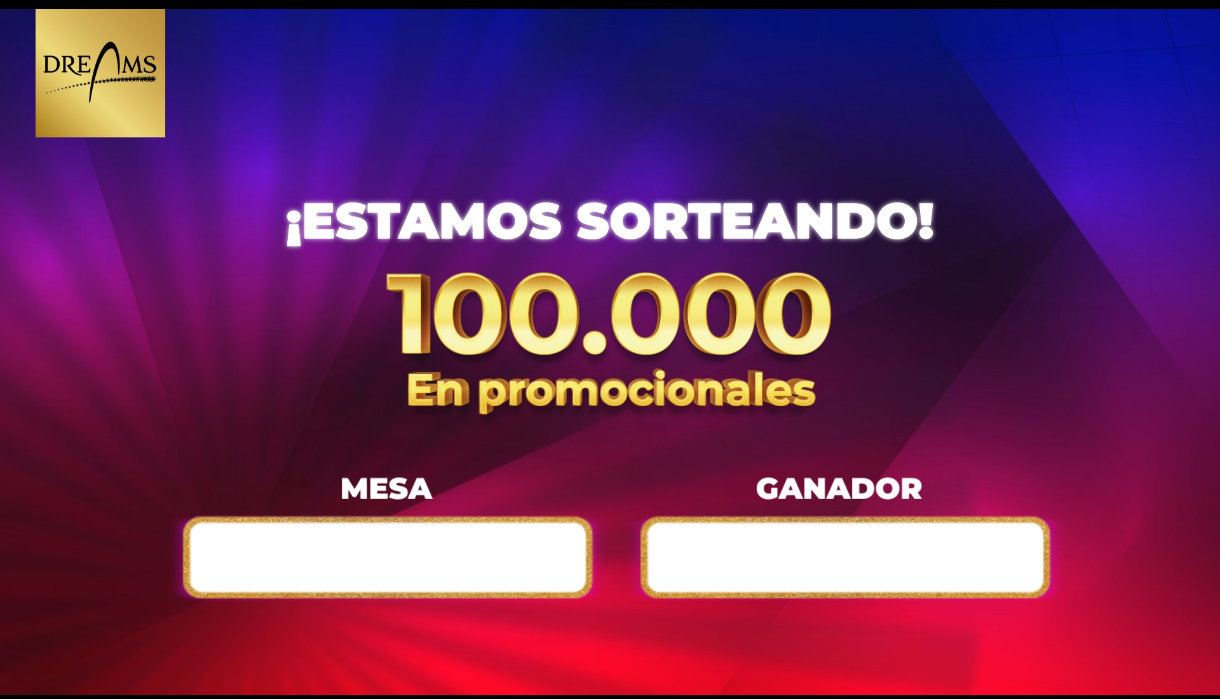
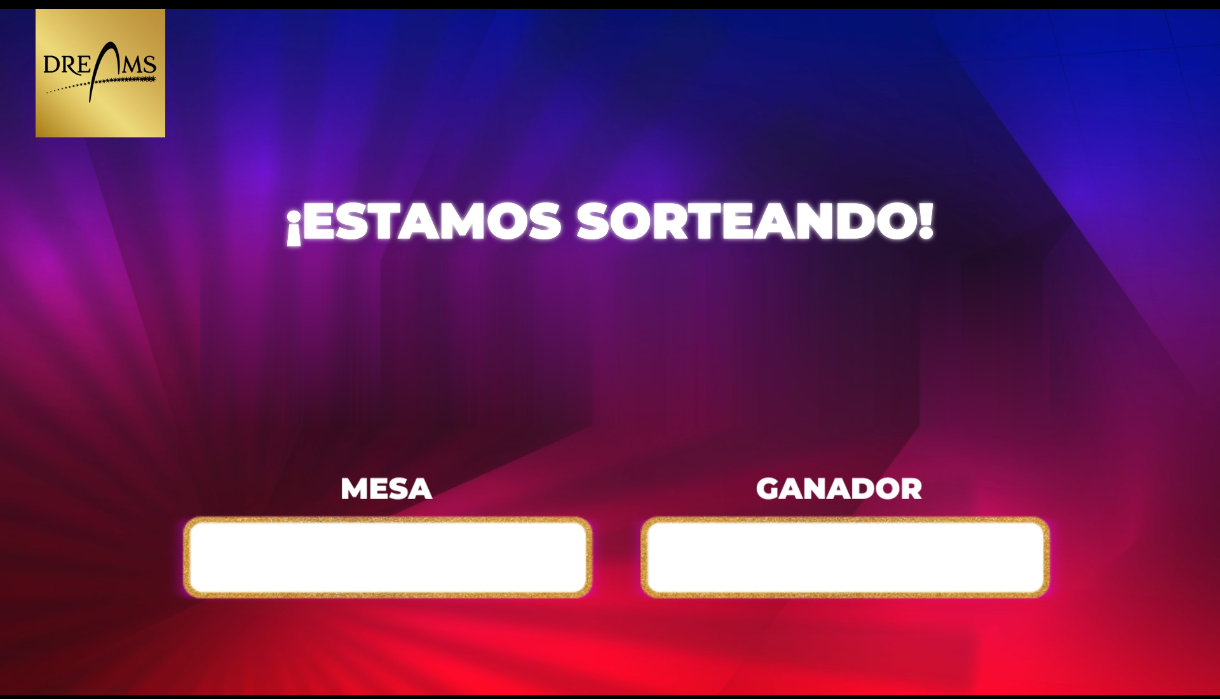
Hacer configurable el monto del premio
- Se agrega en el Panel de Control un campo "Monto del Premio" (con
  vista previa formateada) que se guarda y sincroniza junto al resto
  de la configuración.
- Se retoca img/fondo-sorteo.png quitando el "100.000 En promocionales"
  que venía impreso en el diseño, reconstruyendo el degradado de fondo
  en su lugar.
- sorteo.html ahora superpone el monto y el texto "En promocionales"
  como HTML dinámico (con el mismo estilo dorado 3D), tomando el valor
  configurado (o 100.000 por defecto) y usándolo también en el mensaje
  de entrega del premio.
- Se corrige el ajuste automático de tamaño de las tómbolas: no restaba
  el padding horizontal de la caja, lo que podía recortar el final de
  nombres de mesa largos (ej. "Caribbean-Poker 13").

Claude-Session: https://claude.ai/code/session_01BiHBPHftdU8jqyBDkcDSQk

Changed region(s): [[0.2803, 0.3906, 0.6852, 0.6009], [0.7475, 0.5107, 0.7787, 0.6009]]

diff --git a/sorteo.html b/sorteo.html
@@ -39,6 +39,54 @@
             -webkit-user-drag: none;
         }
 
+        /* ==== Monto del premio y subtítulo, superpuestos sobre el fondo ==== */
+        .texto-monto {
+            position: absolute;
+            left: 31.72%;
+            width: 36.31%;
+            top: 38.91%;
+            height: 11.73%;
+            display: flex;
+            align-items: center;
+            justify-content: center;
+            pointer-events: none;
+        }
+        .texto-monto span {
+            font-weight: 900;
+            font-style: italic;
+            font-size: 9.5cqw;
+            line-height: 1;
+            white-space: nowrap;
+            background: linear-gradient(180deg, #fff8d6 0%, #f6da70 28%, #dcaa42 58%, #b1791f 82%, #7c4b10 100%);
+            -webkit-background-clip: text;
+            background-clip: text;
+            color: transparent;
+            text-shadow: 3px 4px 0 rgba(70, 35, 5, 0.55);
+        }
+        .texto-subtitulo {
+            position: absolute;
+            left: 33.44%;
+            width: 33.28%;
+            top: 52.79%;
+            height: 6.3%;
+            display: flex;
+            align-items: center;
+            justify-content: center;
+            pointer-events: none;
+        }
+        .texto-subtitulo span {
+            font-weight: 800;
+            font-style: italic;
+            font-size: 4.4cqw;
+            line-height: 1;
+            white-space: nowrap;
+            background: linear-gradient(180deg, #fff8d6 0%, #f6da70 35%, #dcaa42 70%, #b1791f 100%);
+            -webkit-background-clip: text;
+            background-clip: text;
+            color: transparent;
+            text-shadow: 2px 2px 0 rgba(70, 35, 5, 0.5);
+        }
+
         /* ==== Cajas de la tómbola, alineadas con los recuadros blancos de la imagen ==== */
         .reel-caja {
             position: absolute;
@@ -122,7 +170,9 @@
 </head>
 <body>
     <div class="escenario-sorteo">
-        <img src="img/fondo-sorteo.png" alt="Estamos Sorteando 100.000 en promocionales" class="fondo-imagen">
+        <img src="img/fondo-sorteo.png" alt="Estamos Sorteando en promocionales" class="fondo-imagen">
+        <div class="texto-monto"><span id="texto-monto-premio">100.000</span></div>
+        <div class="texto-subtitulo"><span>En promocionales</span></div>
         <div id="reel-mesa" class="reel-caja"><span class="reel-texto">—</span></div>
         <div id="reel-ganador" class="reel-caja"><span class="reel-texto">—</span></div>
     </div>
@@ -137,6 +187,7 @@
 
     <script>
         const cssSheet = document.getElementById('estilos-dinamicos');
+        const textoMontoPremio = document.getElementById('texto-monto-premio');
         const cajaMesa = document.getElementById('reel-mesa');
         const cajaGanador = document.getElementById('reel-ganador');
         const textoMesa = cajaMesa.querySelector('.reel-texto');
@@ -150,6 +201,8 @@
 
         const formatColorName = (name) => { if (typeof name !== 'string') return ''; return name.toLowerCase().normalize("NFD").replace(/[\u0300-\u036f]/g, "").replace(/\s+/g, '-'); };
         const generarClasesColores = (colorName, hexCode) => { const formattedName = formatColorName(colorName); if(hexCode && !cssSheet.innerHTML.includes(`.color-${formattedName}`)){ cssSheet.innerHTML += ` .color-${formattedName} { color: ${hexCode} !important; }`; } };
+        const formatMonto = (numero) => (Number(numero) || 0).toLocaleString('es-CL');
+        const obtenerMontoPremio = () => (datosSorteo.montoPremio !== undefined && datosSorteo.montoPremio !== null) ? datosSorteo.montoPremio : 100000;
 
         const aplicarDatos = (data) => {
             datosSorteo = data || {};
@@ -159,6 +212,7 @@
                     generarClasesColores(originalName, value);
                 });
             }
+            textoMontoPremio.textContent = formatMonto(obtenerMontoPremio());
         };
 
         const cargarDatosLocalStorage = () => {
@@ -178,7 +232,9 @@
         const ajustarTamano = (elementoTexto) => {
             elementoTexto.style.fontSize = '';
             const contenedor = elementoTexto.parentElement;
-            const disponible = contenedor.clientWidth - 4;
+            const estiloContenedor = getComputedStyle(contenedor);
+            const paddingHorizontal = parseFloat(estiloContenedor.paddingLeft) + parseFloat(estiloContenedor.paddingRight);
+            const disponible = contenedor.clientWidth - paddingHorizontal - 4;
             let tamano = parseFloat(getComputedStyle(elementoTexto).fontSize);
             const ancho = elementoTexto.scrollWidth;
             if (ancho > disponible && ancho > 0) {
@@ -291,7 +347,7 @@
 
         window.entregarPremio = function () {
             const claseColor = ultimoColorGanador ? `color-${formatColorName(ultimoColorGanador)}` : 'color-amarillo';
-            mensajeEstado.innerHTML = `<span class="${claseColor}">¡100.000 en Fichas Promocionales entregadas!</span><span class="subtexto">Premio válido con tarjeta del casino.</span>`;
+            mensajeEstado.innerHTML = `<span class="${claseColor}">¡${formatMonto(obtenerMontoPremio())} en Fichas Promocionales entregadas!</span><span class="subtexto">Premio válido con tarjeta del casino.</span>`;
             CanalSorteo.enviar({ tipo: 'premio-entregado' });
         };
 

diff --git a/index.html b/index.html
@@ -115,6 +115,13 @@
         </div>
 
         <div class="config-seccion">
+            <h4>Monto del Premio:</h4>
+            <div class="input-group">
+                <input type="number" id="input-monto-premio" min="0" step="1000" placeholder="Ej: 100000">
+                <span id="monto-premio-preview" style="font-weight: bold; color: #f39c12; min-width: 110px;"></span>
+            </div>
+        </div>
+        <div class="config-seccion">
             <h4>Mesas en juego:</h4>
             <div class="botones-opciones">
                 <button class="btn-opcion" onclick="toggleCheckboxes('mesas-en-juego', true)">Seleccionar todos</button>
@@ -188,10 +195,15 @@
             colores21: ['Lila', 'Amarillo', 'Rojo', 'Verde', 'Azul', 'Plomo', 'Naranjo', 'Burdeo'],
             colores22: ['Amarillo', 'Verde', 'Azul', 'Celeste', 'Café', 'Negro', 'Burdeo', 'Rojo', 'Naranjo', 'Calipso', 'Gris'],
             colores23: ['Amarillo', 'Verde', 'Azul', 'Celeste', 'Café', 'Negro', 'Burdeo', 'Rojo', 'Naranjo', 'Calipso', 'Gris'],
-            colorMap: { 'lila': '#9B59B6', 'amarillo': '#F1C40F', 'rojo': '#E74C3C', 'verde': '#2ECC71', 'azul': '#3498DB', 'plomo': '#95A5A6', 'naranjo': '#E67E22', 'burdeo': '#C0392B', 'celeste': '#5DADE2', 'cafe': '#A0522D', 'negro': '#000000', 'calipso': '#00A896', 'gris': '#7f8c8d' }
+            colorMap: { 'lila': '#9B59B6', 'amarillo': '#F1C40F', 'rojo': '#E74C3C', 'verde': '#2ECC71', 'azul': '#3498DB', 'plomo': '#95A5A6', 'naranjo': '#E67E22', 'burdeo': '#C0392B', 'celeste': '#5DADE2', 'cafe': '#A0522D', 'negro': '#000000', 'calipso': '#00A896', 'gris': '#7f8c8d' },
+            montoPremio: 100000
         };
 
-        let todasLasMesas, coloresRuleta21, coloresRuleta22, coloresRuleta23, colorMap;
+        let todasLasMesas, coloresRuleta21, coloresRuleta22, coloresRuleta23, colorMap, montoPremio;
+        const inputMontoPremio = document.getElementById('input-monto-premio');
+        const montoPremioPreview = document.getElementById('monto-premio-preview');
+        const formatMonto = (numero) => (Number(numero) || 0).toLocaleString('es-CL');
+        const actualizarPreviewMonto = () => { montoPremioPreview.textContent = formatMonto(inputMontoPremio.value); };
 
         // --- Lógica de Control de Ventana ---
         function lanzarPantallaSorteo() { if (sorteoWindow && !sorteoWindow.closed) { sorteoWindow.focus(); return; } sorteoWindow = window.open('sorteo.html', 'Sorteo', 'fullscreen=yes,menubar=no,toolbar=no,location=no,status=no'); if (!sorteoWindow) { alert("El navegador bloqueó la ventana emergente."); return; } }
@@ -258,6 +270,7 @@
                 colores22: coloresRuleta22, // Guardado por separado
                 colores23: coloresRuleta23, // Guardado por separado
                 colorMap: colorMap,
+                montoPremio: parseInt(inputMontoPremio.value, 10) || 0,
                 checkedMesas: Array.from(document.querySelectorAll('input[name="mesas-en-juego"]:checked')).map(cb => cb.value),
                 checkedColores21: Array.from(document.querySelectorAll('input[name="colores-ruleta-21"]:checked')).map(cb => cb.value),
                 checkedColores22: Array.from(document.querySelectorAll('input[name="colores-ruleta-22"]:checked')).map(cb => cb.value),
@@ -276,6 +289,9 @@
             coloresRuleta22 = data.colores22 || defaultData.colores22;
             coloresRuleta23 = data.colores23 || defaultData.colores23;
             colorMap = data.colorMap || defaultData.colorMap;
+            montoPremio = (data.montoPremio !== undefined && data.montoPremio !== null) ? data.montoPremio : defaultData.montoPremio;
+            inputMontoPremio.value = montoPremio;
+            actualizarPreviewMonto();
         };
         
         const aplicarSeleccionesGuardadas = () => {
@@ -339,6 +355,7 @@
         document.getElementById('btn-agregar-color-21').addEventListener('click', () => agregarOpcion('lista-colores-21', 'colores-ruleta-21', coloresRuleta21, 'nuevo-color-nombre-21-input', 'nuevo-color-hex-21-input'));
         document.getElementById('btn-agregar-color-22').addEventListener('click', () => agregarOpcion('lista-colores-22', 'colores-ruleta-22', coloresRuleta22, 'nuevo-color-nombre-22-input', 'nuevo-color-hex-22-input'));
         document.getElementById('btn-agregar-color-23').addEventListener('click', () => agregarOpcion('lista-colores-23', 'colores-ruleta-23', coloresRuleta23, 'nuevo-color-nombre-23-input', 'nuevo-color-hex-23-input'));
+        inputMontoPremio.addEventListener('input', actualizarPreviewMonto);
         
         document.addEventListener('DOMContentLoaded', () => {
             cargarDatos();
